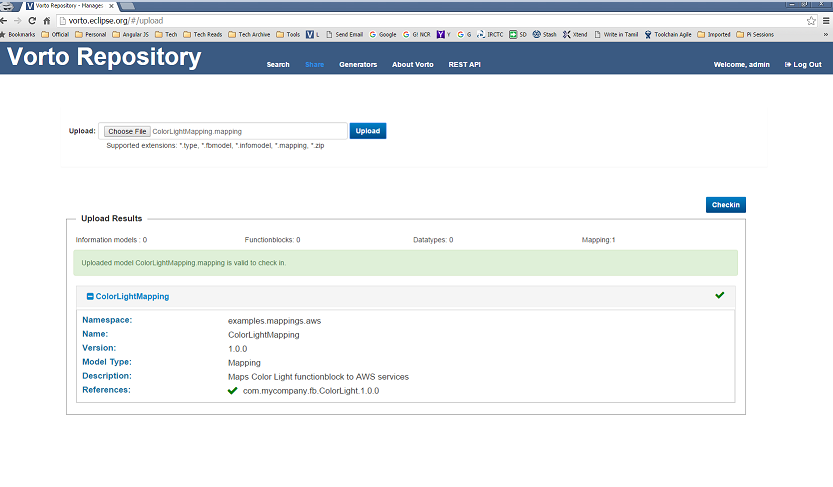
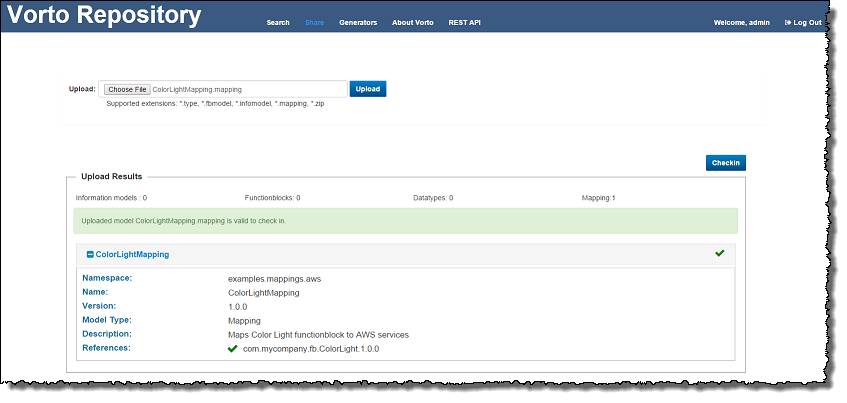
Vorto  mapping review done. Fixes #317

diff --git a/website/documentation/editors/mapping-model.md b/website/documentation/editors/mapping-model.md
@@ -1,46 +1,60 @@
 ---
 layout: documentation
-title: Model Mappings
+title: Defining Model Mappings
 ---
 {% include base.html %}
 
-## Mapping Models
+
+# Defining Model Mappings
+
+This section details the following topics:
+
+[Model Mapping](#model-mapping)  
+
+[Defining a Data Type Mapping](./data-type-mapping.html)  
+
+[Defining a Function Block Mapping](./function-block-mapping.html)  
+
+[Defining an Information Model Mapping](./information-model-mapping.html)  
+
+
+## Model Mapping
 
 Vorto allows the user to define mapping rules to map Vorto models to other target platform domain models.
 
-The primary purpose of defining Mapping models in Vorto is to directly translate or map datatype/functionblock/information model descriptions from Vorto to any other IoT platforms (For e.g Kura, Eclipse Smarthome). Vorto Mapping models acts as a bridge between Vorto definitions and target platforms/technologies.
+The primary purpose of defining model mappings in Vorto is to directly translate or map datatype/functionblock/information model descriptions from Vorto to any other IoT platforms (for example, Kura, Eclipse Smarthome). Vorto model mapping acts as a bridge between Vorto definitions and target platforms/technologies.
 
-In addition to that, the mapping models provides an option to enhance the Vorto models with additional meta data descriptions targeted for a specific platform. Thereby the code generators can leverage the expanded meta data descriptions customized for their platforms. Vorto helps to  integrate with other IoT platforms through the Mapping models in flexible manner. Here are few possible scenarios where Mapping models can be used. 
+In addition to that, the model mapping provides an option to enhance the Vorto models with additional metadata descriptions targeted for a specific platform. Thereby the code generators can leverage the expanded metadata descriptions customized for their platforms. Vorto helps to integrate with other IoT platforms through the model mapping in flexible manner. Here are few possible scenarios where model mapping can be used:
 
- - Translate Vorto model definitions to understand other IoT platforms
- - Provide additional metadata in which Vorto models is not able to describe for specific IoT solutions.
- - Provide different mapping models for multiple versions of target platforms (For eg. iOS 7/8) 
+ - Translate Vorto model definitions to understand other IoT platforms.
+ - Provide additional metadata in case the Vorto model is not able to describe a specific IoT solution.
+ - Provide different model mappings for multiple versions of target platforms (For example, iOS 7/8).
 
-
-Mapping models can be defined for
+Model mapping can be defined for the following:
  
- - [Datatypes](./data-type-mapping.html)
- - [Function Blocks](./function-block-mapping.html)
- - [Information Models](./information-model-mapping.html)   
+- [Datatypes](./data-type-mapping.html)
+- [Function Blocks](./function-block-mapping.html)
+- [Information Models](./information-model-mapping.html)   
 
-The Mapping models contains direct mapping of Vorto grammar descriptions to custom defined `Stereotypes` and `Attributes` specific for that target platform. 
+The model mapping contains a direct mapping of Vorto grammar descriptions to custom defined `Stereotypes` and `Attributes` specific for the target platform.
 
-`Stereotypes` are custom defined keyword which is leveraged by target platform generators.
+`Stereotypes` are custom defined keywords which are leveraged by target platform generators.
 
-`Attributes` are custom defined key value pairs for a specific Stereotypes which is again leveraged by specific target platform generators.    
+`Attributes` are custom defined key value pairs for a specific stereotype which is again leveraged by specific target platform generators.
 
-A simple Mapping model definition from Vorto to Philips Hue looks likes below, 
+A simple model mapping statement from Vorto to Philips Hue looks likes below
 
+	...
 	from ColorLight.category to philipshue with {configuration : "devicetype"}
+	...
 
-In the above mapping 'philipshue' is a custom defined stereotype and 'configuration' is custom defined attribute and a value 'devicetype' is actual value which is being mapped to Philips Hue definitions. The code generators can make use of these additional metadata which could be targeted for specific IoT solutions or platforms. 
+In the above mapping `philipshue` is a custom defined stereotype, `configuration` is a custom defined attribute and the value `devicetype` is the actual value which is being mapped to Philips Hue definitions. The code generators can make use of these additional metadata which could be targeted for specific IoT solutions or platforms.
 
+To demonstrate the potential for model mapping, let us define a model mapping to enhance *Alexa* commands for the *AWS genertor*.
 
+The following two examples definitions are given:
 
-To demonstrate the potential for Mapping models, let us define a mapping model to enhance Alexa commands for AWS genertor.
-
-Lets take a simple example of `ColorLight` functionblock definition, 
-
+`ColorLight` functionblock definition
 
 	namespace com.mycompany.fb
 	version 1.0.0
@@ -48,16 +62,15 @@ Lets take a simple example of `ColorLight` functionblock definition,
 	description "Function block model for ColorLight"
 	category demo	
 	functionblock ColorLight {
-		status{ 
+		status{
 			mandatory brightness as int
 		}
 		operations{
-			setBrightness(level as int)		
+			setBrightness(level as int)
 		}
 	}
 
-
-and with `ColorLightSystem` information model definition, 	
+`ColorLightSystem` information model definition
 
 	namespace com.mycompany.informationmodels
 	version 1.0.0
@@ -74,14 +87,15 @@ and with `ColorLightSystem` information model definition,
 		}
 	}
 
-By invoking AWS generator without any mapping models from Vorto Repository, it generates the following Alexa voice command vocabulary in `colorlightsystemUtterances.txt` file. These  voice commands are provided as a input to AWS service to set the appropriate brightness level to any device. The details of how the AWS services control the actual devices are beyond the scope of this documentation. 
-	
-	setBrightness {level}
-	
-	brightness get brightness status
-  
+By invoking the *AWS Generator* without any model mapping from Vorto Repository, it generates the following *Alexa* voice command vocabulary in the `colorlightsystemUtterances.txt` file.
 
-Lets define a mapping model `ColorLightMapping` to enhance the Alexa voice commands vocabulary for the `ColorLight` functionblock. Thereby more voice commands are recognized by AWS services to control the actual devices.
+	setBrightness {level}
+
+	brightness get brightness status
+
+These voice commands are provided as an input to the AWS service to set the appropriate brightness level to any device. The details of how the AWS services control the actual devices are beyond the scope of this documentation.
+
+Now we define a model mapping `ColorLightMapping` to enhance the *Alexa* voice commands vocabulary for the `ColorLight` functionblock. Thereby, more voice commands are recognized by AWS services to control the actual devices.
 
 	namespace examples.mappings.aws
 	version 1.0.0
@@ -90,27 +104,26 @@ Lets define a mapping model `ColorLightMapping` to enhance the Alexa voice comma
 	using com.mycompany.fb.ColorLight;1.0.0
 	functionblockmapping ColorLightMapping {
 		targetplatform aws
-		from ColorLight.operation.setBrightness to alexa with {command: "set brightness to {level} ; increase brightness to {level} ; decrease brightness to {level}"}		
-	}	
+		from ColorLight.operation.setBrightness to alexa with {command: "set brightness to {level} ; increase brightness to {level} ; decrease brightness to {level}"}
+	}
+
+In the above mapping, the *Alexa* voice command is enhanced by  additional commands with `increase` and `decrease` to control the `ColorLight`. Here, `alexa` is a custom defined `Stereotypes` keyword which the *AWS Generator* interprets and makes use of the additional values defined in the model mapping. Again, `command` is a custom defined `Attribute` keyword which the *AWS generator* can understand. 
 
 
-In the above mapping, the Alexa voice command is enhanced by additional command with `increase` and `decrease` to control the `ColorLight`.  Here `alexa` is a custom defined `Stereotype` keyword which AWS code generator interprets and makes use of the additional values defined in the mapping model. Again `command` is a custom defined `Attribute` keyword which is AWS code generator can understand. 
+Once this model mapping `ColorLightMapping` is defined, it can be shared using the Vorto Repository Web interface page:
 
-
-Once this mapping model `ColorLightMapping` is shared using Vorto Repository Web UI page as below
-
- ![Share Mapping Model]({{base}}/img/documentation/vorto_share_mapping_model.png). 
+![Share Model Mapping]({{base}}/img/documentation/vorto_share_mapping_model.png)
 
 <table class="table table-bordered">
 	<tbody>
  <tr>
    <td><i class="fa fa-info-circle info-note"></i></td>
-    <td>Note: Currently mapping models are shared only through Vorto repository Web UI.</td>
+    <td>Note: Currently, model mappings are shared only through the Vorto Repository Web interafce.</td>
   </tr></tbody>
 </table>  
 
 
-With this mapping model, when the AWS generator is invoked, it generates the following `colorlightsystemUtterances.txt`
+With this model mapping the *AWS Generator* generates the file `colorlightsystemUtterances.txt` with the following content:
 
 	setBrightness set brightness to {level} 
 	setBrightness  increase brightness to {level} 
@@ -118,9 +131,7 @@ With this mapping model, when the AWS generator is invoked, it generates the fol
 	
 	brightness get brightness status   
 
-Here the Vorto mapping model descriptions greatly enhances the capabilities of any platform, in this case it is AWS Alexa platform.
-
-
+As you can see, the Vorto model mapping definition greatly enhances the capabilities of any platform, in this case the AWS Alexa platform.
 
 <div class="thumb1">
 <a title="Defining a new Mapping" data-rel="prettyPhoto" href="https://youtu.be/C5c5tTFwG0U&width=1500&height=1000" rel="prettyPhoto" >

diff --git a/website/documentation/vorto-repository/web-interface/overview.md b/website/documentation/vorto-repository/web-interface/overview.md
@@ -19,8 +19,8 @@ You can do the following:
 
 You can access the Vorto Repository by the following ways:
 
-* [The Vorto Repository Web interface]({{base}}/documentation/vorto-repository/web-interface/login-register.html)
-* [The Eclipse Vorto integration]({{base}}/documentation/vorto-repository/eclipse-vorto-integration/setting-preferences-eclipse.html)
+* [The Vorto Repository Web Interface]({{base}}/documentation/vorto-repository/web-interface/login-register.html)
+* [The Eclipse Vorto Integration]({{base}}/documentation/vorto-repository/eclipse-vorto-integration/setting-preferences-eclipse.html)
 * [The Vorto CLI Tool]({{base}}/documentation/vorto-repository/cli-tool/cli-tool.html)
 
 For searching and downloading information Models as well as for information on available code generators you can use the Vorto Repository without an Vorto Repository account.

diff --git a/website/documentation/editors/datatype.md b/website/documentation/editors/datatype.md
@@ -55,7 +55,7 @@ You have created a data type (refer to [Creating a new Data Type](#creating-a-ne
 
 **Proceed as follows**
 
-1. In the **Datatype Models** area, click the data type entity you want to edit, e.g., `Color`.  
+1. In the **Datatype Models** area, click the data type entity you want to edit, for example, `Color`.  
    The DSL editor for the file `*_Color_*.type` opens.
 2. In the DSL editor, edit the entity according to your needs.
 
